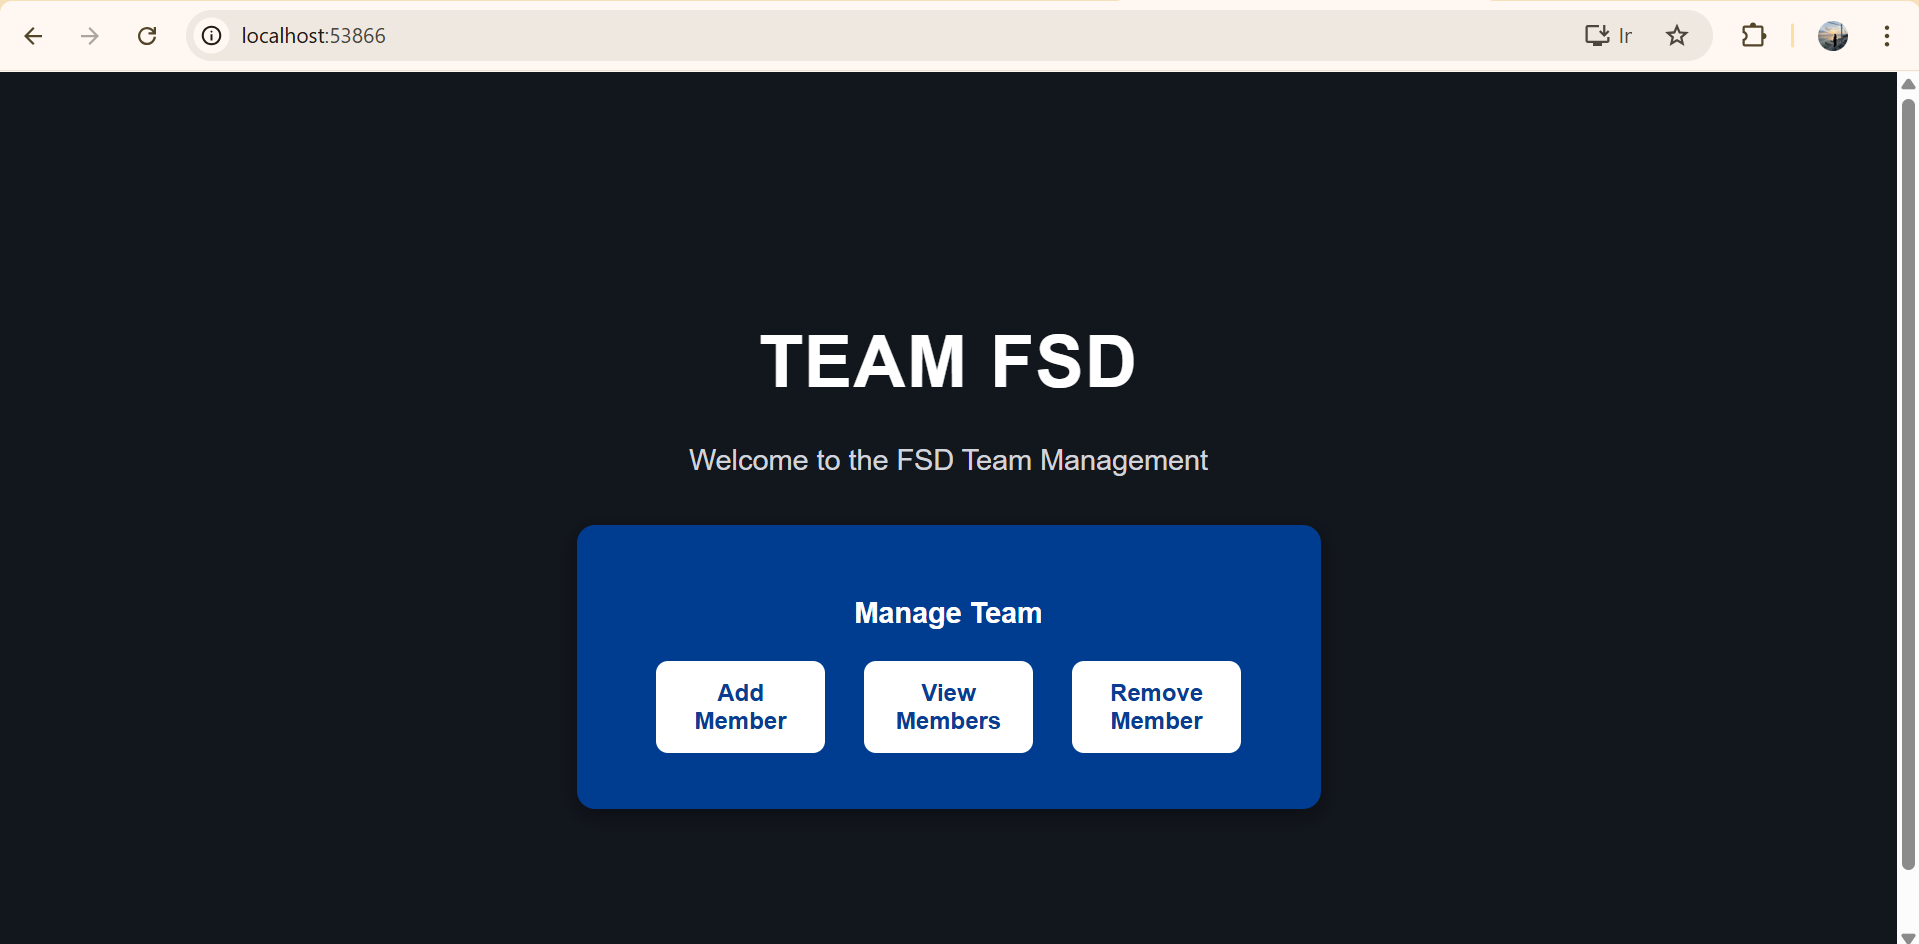
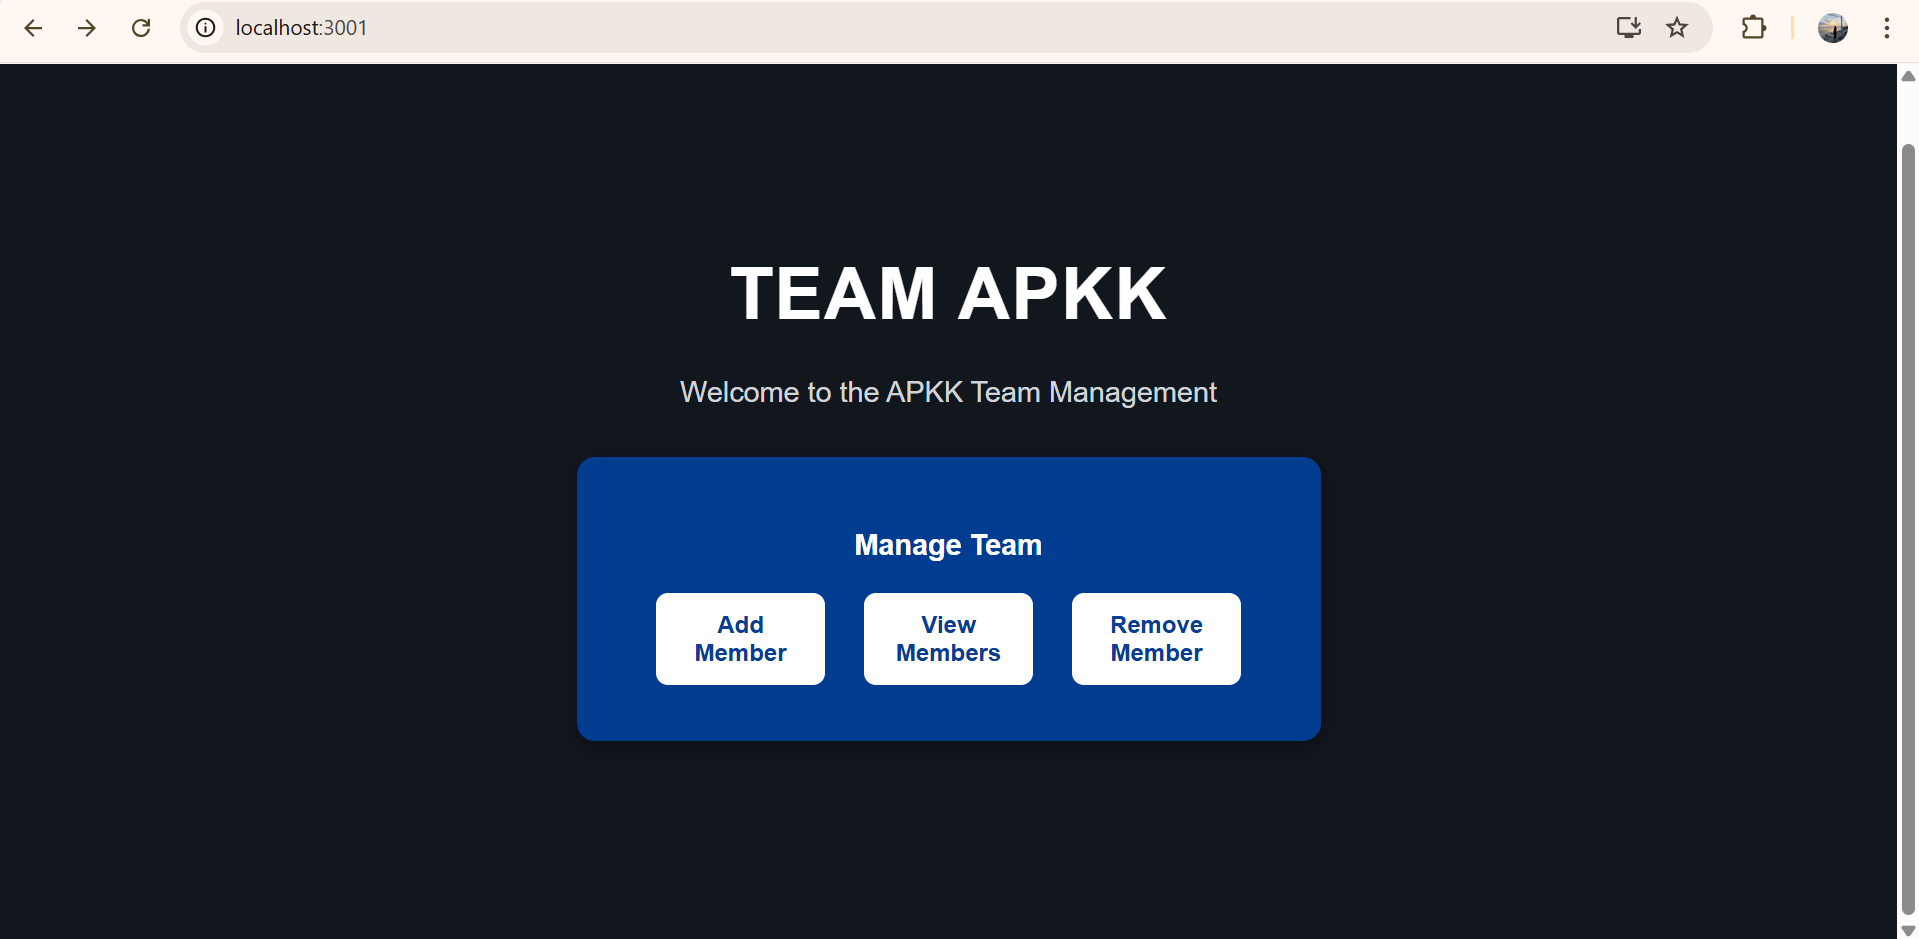
Team Name Update

diff --git a/frontend/src/pages/Home.js b/frontend/src/pages/Home.js
@@ -5,8 +5,8 @@ import '../Homepage.css';
 const Home = () => {
   return (
     <div className="home-page">
-      <h1>TEAM FSD</h1>
-      <p>Welcome to the FSD Team Management</p>
+      <h1>TEAM APKK</h1>
+      <p>Welcome to the APKK Team Management</p>
 
       <div className="manage-card">
         <h2>Manage Team</h2>
